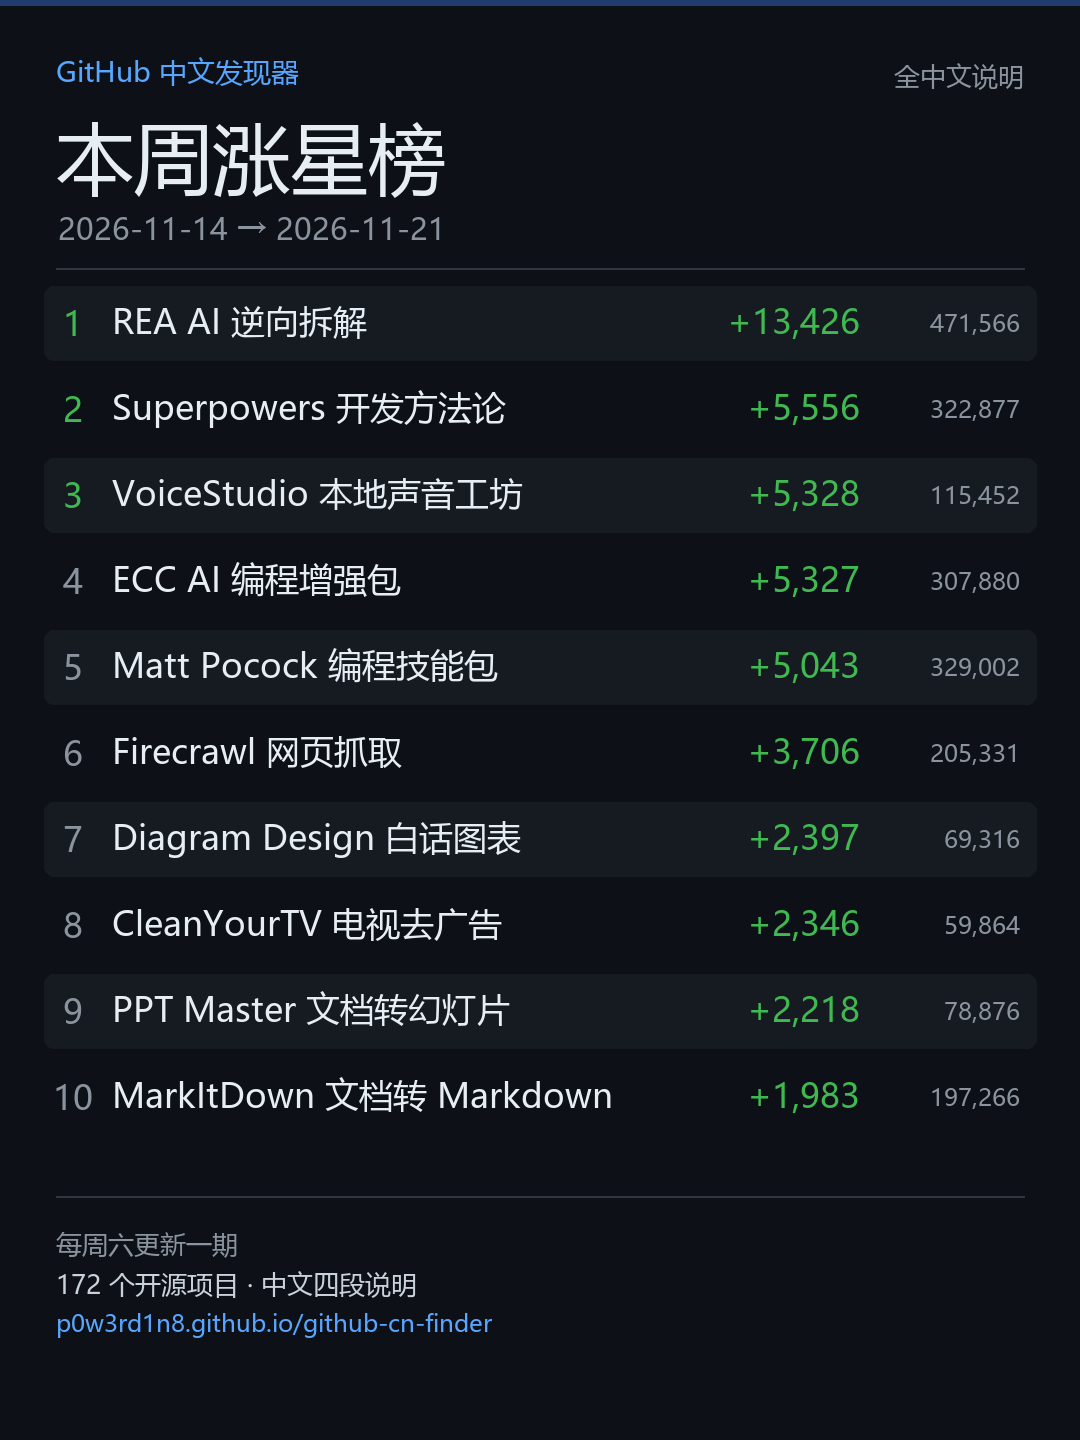
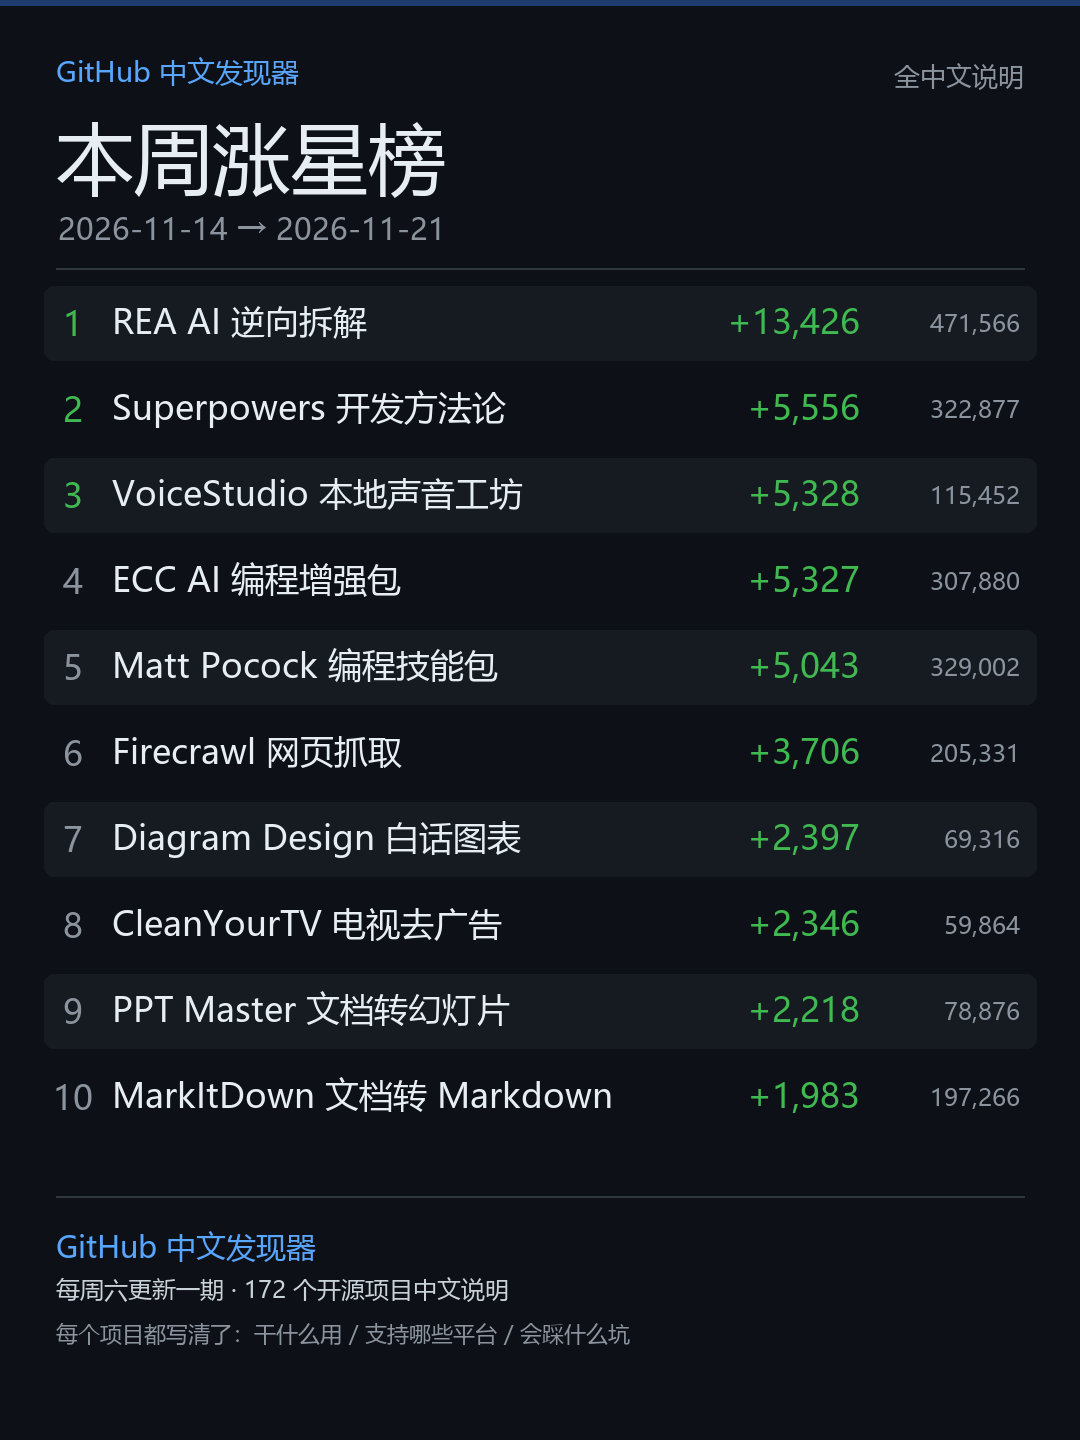
fix: v1.38.1 小红书版涨星榜图去掉网址（踩了 11/15 违规的红线）
查手册 §5.7 才发现：11/15 小红书被判「笔记存在外部平台信息」→ 限制推荐和搜索
展示（粉丝可见 = 没流量）。红线第一条就是「图片里不放网址/二维码/水印」。

我昨天做的 clean 版底部还印着 p0w3rd1n8.github.io/...，正好撞在红线上——
如果按原计划发出去，大概率是第二次违规。

- 小红书版改为只有：站名 + 每周期数/项目数 + 一句内容价值说明
- 无网址、无二维码（pyzbar 解码确认无码）
- 带码版继续给微信群/朋友圈（那里二维码是加分项）
- 周刊页面上的说明文字同步改准

另外：撤回我重复实现的 IndexNow。indexnow.py 早在 v1.33.1 就已接入
build-pages.yml，我没查 git 历史和手册就重写了一遍，已 git stash 回滚。

版本 v1.38.1 / SW gh-cn-v47；verify_browser 39/39

Changed region(s): [[0.0306, 0.8438, 0.4889, 0.9375], [0.4889, 0.9062, 0.5806, 0.9375]]

diff --git a/sw.js b/sw.js
@@ -37,8 +37,9 @@
    版本 v43（v1.36.2）：首页「周六更新一期」提示条整条可点进周刊；每周精选入口单独强调色。
    版本 v44（v1.36.3）：周刊第三期上线；修掉「周快照写入后不触发重建」（GITHUB_TOKEN 推送不触发其它 workflow）。
    版本 v45（v1.37.0）：首页标题/描述按搜索意图重写，补站点级 JSON-LD（WebSite + SearchAction）。
-   版本 v46（v1.37.1）：统计加 navigator.webdriver 判断，自动化浏览器（含线上验证）一律不上报。 */
-const CACHE = "gh-cn-v46";
+   版本 v46（v1.37.1）：统计加 navigator.webdriver 判断，自动化浏览器（含线上验证）一律不上报。
+   版本 v47（v1.38.1）：涨星榜「小红书版」去掉网址（平台红线：图片含站外链接会限流）。 */
+const CACHE = "gh-cn-v47";
 const ASSETS = ["./", "./index.html", "./data.js", "./qrcode.min.js", "./manifest.json", "./icon.svg",
   "./icon-192.png", "./icon-512.png", "./icon-maskable.svg", "./icon-maskable-512.png",
   "./list.html", "./updates.json"];

diff --git a/weekly/2026-11-21.html b/weekly/2026-11-21.html
@@ -101,7 +101,7 @@ nav.sub a{color:var(--accent);text-decoration:none;margin-right:14px}
 <h2>📸 存图转发</h2>
 <p class="note">手机长按图片保存到相册，电脑右键另存；可直接发微信群、朋友圈、小红书。</p>
 <a href="card-2026-11-21.png"><img src="card-2026-11-21.png" alt="本周涨星榜" style="width:100%;border-radius:12px;border:1px solid var(--border);display:block"></a>
-<p class="note">→ 另有 <a href="card-2026-11-21-clean.png">无二维码版</a>（发小红书用，平台对二维码敏感）</p>
+<p class="note">→ 另有 <a href="card-2026-11-21-clean.png">小红书版</a>（<b>无网址、无二维码</b>，按平台红线制作：图片里出现站外链接会被判「外部平台信息」而限流）</p>
 <p class="note">数据口径：每周抓一次全库星标（UTC 日期）。共 172 个项目。</p>
 <nav class="sub"><a href="https://p0w3rd1n8.github.io/github-cn-finder/weekly/">← 全部期数</a><a href="https://p0w3rd1n8.github.io/github-cn-finder/">回首页</a></nav>
 </main>

diff --git a/weekly/2026-11-14.html b/weekly/2026-11-14.html
@@ -99,7 +99,7 @@ nav.sub a{color:var(--accent);text-decoration:none;margin-right:14px}
 <h2>📸 存图转发</h2>
 <p class="note">手机长按图片保存到相册，电脑右键另存；可直接发微信群、朋友圈、小红书。</p>
 <a href="card-2026-11-14.png"><img src="card-2026-11-14.png" alt="本周涨星榜" style="width:100%;border-radius:12px;border:1px solid var(--border);display:block"></a>
-<p class="note">→ 另有 <a href="card-2026-11-14-clean.png">无二维码版</a>（发小红书用，平台对二维码敏感）</p>
+<p class="note">→ 另有 <a href="card-2026-11-14-clean.png">小红书版</a>（<b>无网址、无二维码</b>，按平台红线制作：图片里出现站外链接会被判「外部平台信息」而限流）</p>
 <p class="note">数据口径：每周抓一次全库星标（UTC 日期）。共 162 个项目。</p>
 <nav class="sub"><a href="https://p0w3rd1n8.github.io/github-cn-finder/weekly/">← 全部期数</a><a href="https://p0w3rd1n8.github.io/github-cn-finder/">回首页</a></nav>
 </main>

diff --git a/index.html b/index.html
@@ -43,7 +43,7 @@
     if(mc) mc.setAttribute("content", t==="light" ? "#f6f8fa" : "#0d1117");
   }catch(e){}
 })();
-window.GH_VER = "v1.37.1";
+window.GH_VER = "v1.38.1";
 </script>
 <!-- v1.34.1：把 /index.html 归一成 /（同一个首页两个入口，统计报表被劈成两半） -->
 <script>

diff --git a/build_weekly_card.py b/build_weekly_card.py
@@ -151,12 +151,16 @@ def render(date_prev, date_cur, rows, with_qr, out_path):
                             radius=10, fill=(255, 255, 255))
         img.paste(qimg, (qx, qy))
     else:
+        # v1.38.1：小红书版**不能出现任何网址**。
+        # 2026-11-15 有实盘教训：笔记里出现站外链接/网址会被判「外部平台信息」，
+        # 直接限制推荐和搜索展示（粉丝可见 = 没流量）。手册 §5.7 有完整红线。
         ty = 1226
-        lines = [("每周六更新一期", 26, DIM), ("172 个开源项目 · 中文四段说明", 26, (201, 209, 217)),
-                 (SITE_TEXT, 24, ACCENT)]
+        lines = [("GitHub 中文发现器", 30, ACCENT),
+                 ("每周六更新一期 · 172 个开源项目中文说明", 24, (201, 209, 217)),
+                 ("每个项目都写清了：干什么用 / 支持哪些平台 / 会踩什么坑", 22, DIM)]
         for s, size, color in lines:
             d.text((56, ty), s, font=font(size), fill=color)
-            ty += 40
+            ty += 46
 
     img.save(out_path, "PNG", optimize=True)
     return img.size

diff --git a/build_extra.py b/build_extra.py
@@ -232,8 +232,8 @@ def weekly_pages(data):
                 '<p class="note">手机长按图片保存到相册，电脑右键另存；可直接发微信群、朋友圈、小红书。</p>\n'
                 f'<a href="card-{date}.png"><img src="card-{date}.png" alt="本周涨星榜" '
                 'style="width:100%;border-radius:12px;border:1px solid var(--border);display:block"></a>\n'
-                f'<p class="note">→ 另有 <a href="card-{date}-clean.png">无二维码版</a>'
-                '（发小红书用，平台对二维码敏感）</p>')
+                f'<p class="note">→ 另有 <a href="card-{date}-clean.png">小红书版</a>'
+                '（<b>无网址、无二维码</b>，按平台红线制作：图片里出现站外链接会被判「外部平台信息」而限流）</p>')
 
         parts.append(f'<p class="note">数据口径：每周抓一次全库星标（UTC 日期）。共 {len(stars)} 个项目。</p>')
         parts.append(f'<nav class="sub"><a href="{BASE}/weekly/">← 全部期数</a><a href="{BASE}/">回首页</a></nav>')

diff --git a/README.md b/README.md
@@ -1,7 +1,7 @@
 # GitHub 中文发现器 🧭
 
 > 不懂英文，也能轻松逛 GitHub
-> 当前版本：**v1.37.1**（2026-11-21）
+> 当前版本：**v1.38.1**（2026-11-21）
 
 一个面向中文用户的 GitHub 优质开源项目发现工具，把 GitHub 上最值得关注的项目翻译成大白话，让完全不懂英文、不懂编程的小白也能轻松找到好东西。
 
@@ -53,6 +53,13 @@
 | README.md | 项目说明 |
 
 ## 📜 版本历史
+
+**v1.38.1（2026-11-21）**
+- **涨星榜「小红书版」去掉网址**。手册 §5.7 记着 11/15 的实盘教训：笔记里出现站外链接会被判「外部平台信息」，**直接限制推荐和搜索展示（粉丝可见 = 没流量）**。原来那一版底部还印着 `p0w3rd1n8.github.io/...`，等于自己往枪口上撞
+  - 现在小红书版只有：站名 + 「每周六更新一期 · 172 个开源项目中文说明」+ 一句内容价值说明，**无网址、无二维码**（已用解码器确认无码）
+  - 带二维码那版继续用于微信群 / 朋友圈（那里链接能点，二维码是加分项）
+- 撤回我重复实现的 IndexNow：`indexnow.py` 早在 v1.33.1（11/15）就已接入 `build-pages.yml`，我没查历史就重写了一遍，已回滚（改动留在 stash 备查）
+- 手册 §5.6 的预期值得记住：IndexNow 推送后 24 小时开始抓、**1 周内站名能搜到、2~4 周长尾词才有排名**。11/19 才推过一次，今天（11/21）看到 43 条已索引属正常进度（Service Worker v47）
 
 **v1.37.1（2026-11-21）**
 - **堵住统计污染的最后一条缝**：11/20 那批假量查清楚了——`?cb=1795262930` 那一行就是我跑线上验证脚本留下的（参数是我加的缓存破坏符）
